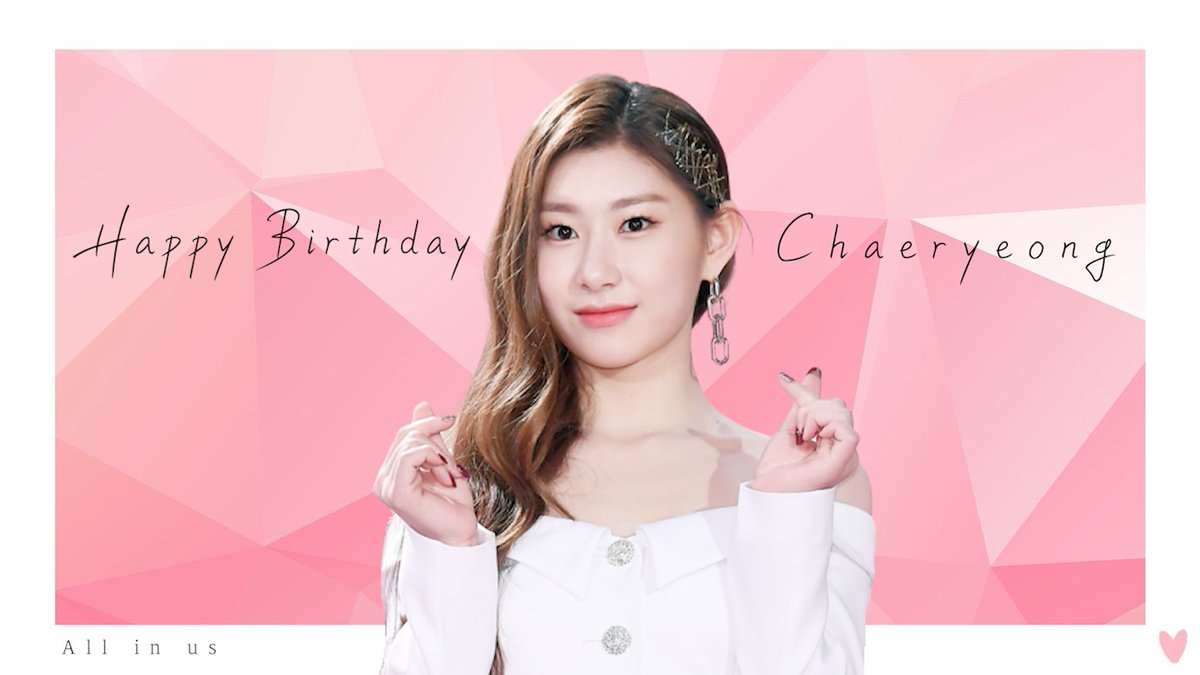
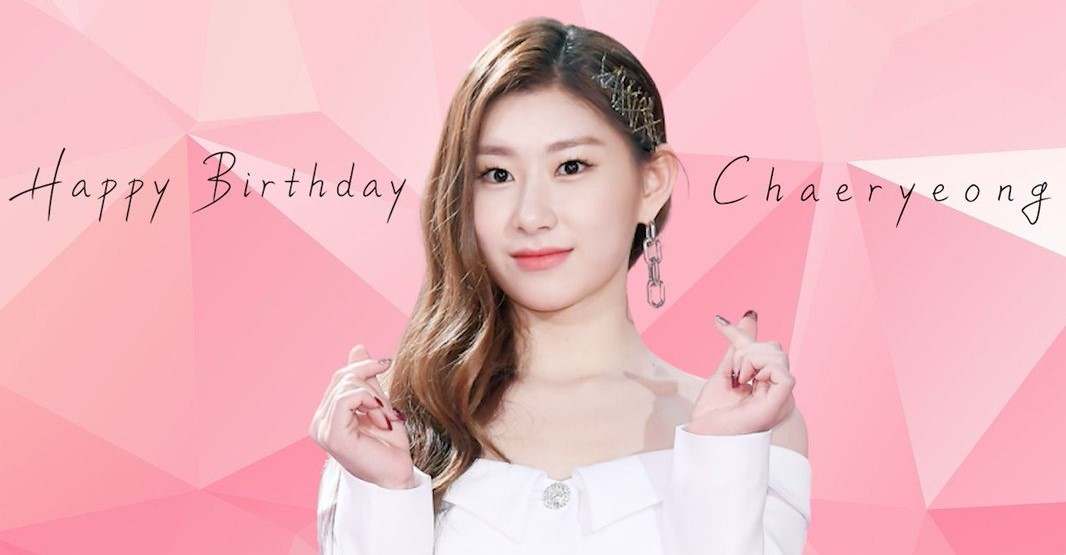
:hammer: [EDIT] Image Fix

diff --git a/frontend/src/components/Banner.tsx b/frontend/src/components/Banner.tsx
@@ -1,4 +1,4 @@
-import { Box, Button, Grid } from '@material-ui/core';
+import { Box, Button, Grid, Hidden } from '@material-ui/core';
 import React from 'react';
 import { Swiper, SwiperSlide } from 'swiper/react';
 // Import Swiper styles
@@ -43,6 +43,7 @@ const Banner = () => {
           style={{
             borderRadius: '10px',
             height: '400px',
+            overflow: 'hidden',
           }}
         >
           <img
@@ -62,6 +63,7 @@ const Banner = () => {
             borderRadius: '20px',
             height: '400px',
             padding: 0,
+            overflow: 'hidden',
           }}
         >
                    <img
@@ -81,12 +83,13 @@ const Banner = () => {
             borderRadius: '20px',
             padding: 0,
             height: '400px',
+            overflow: 'hidden',
           }}
         >
                    <img
             src={banner3}
             style={{
-              height: '100%',
+              width: '100%',
               alignContent: 'center'
             }}
           ></img>
@@ -101,12 +104,14 @@ const Banner = () => {
             borderRadius: '20px',
             height: '400px',
             padding: 0,
+            overflow: 'hidden',
           }}
         >
                    <img
             src={banner2}
             style={{
-              height: '100%',
+              width: '100%',
+              alignItems: 'center'
             }}
           ></img>
         </div></SwiperSlide>
